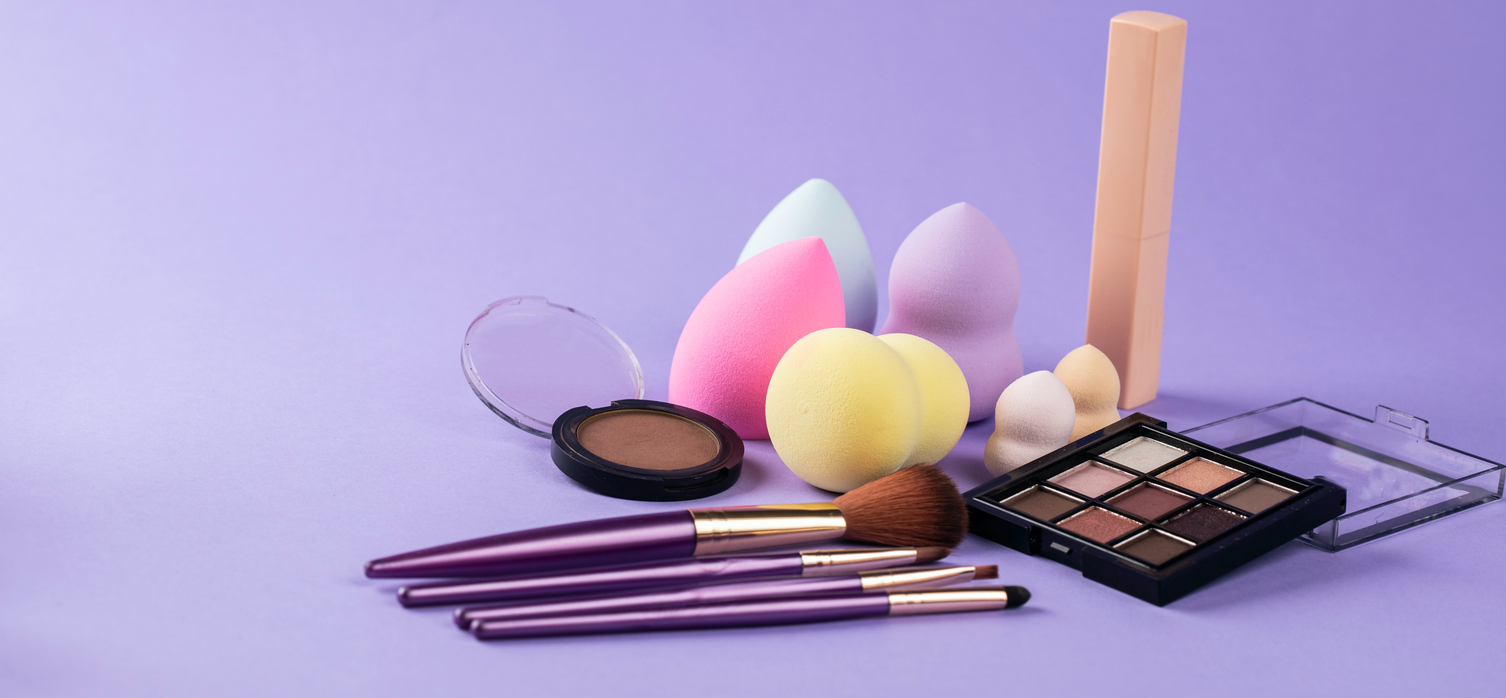
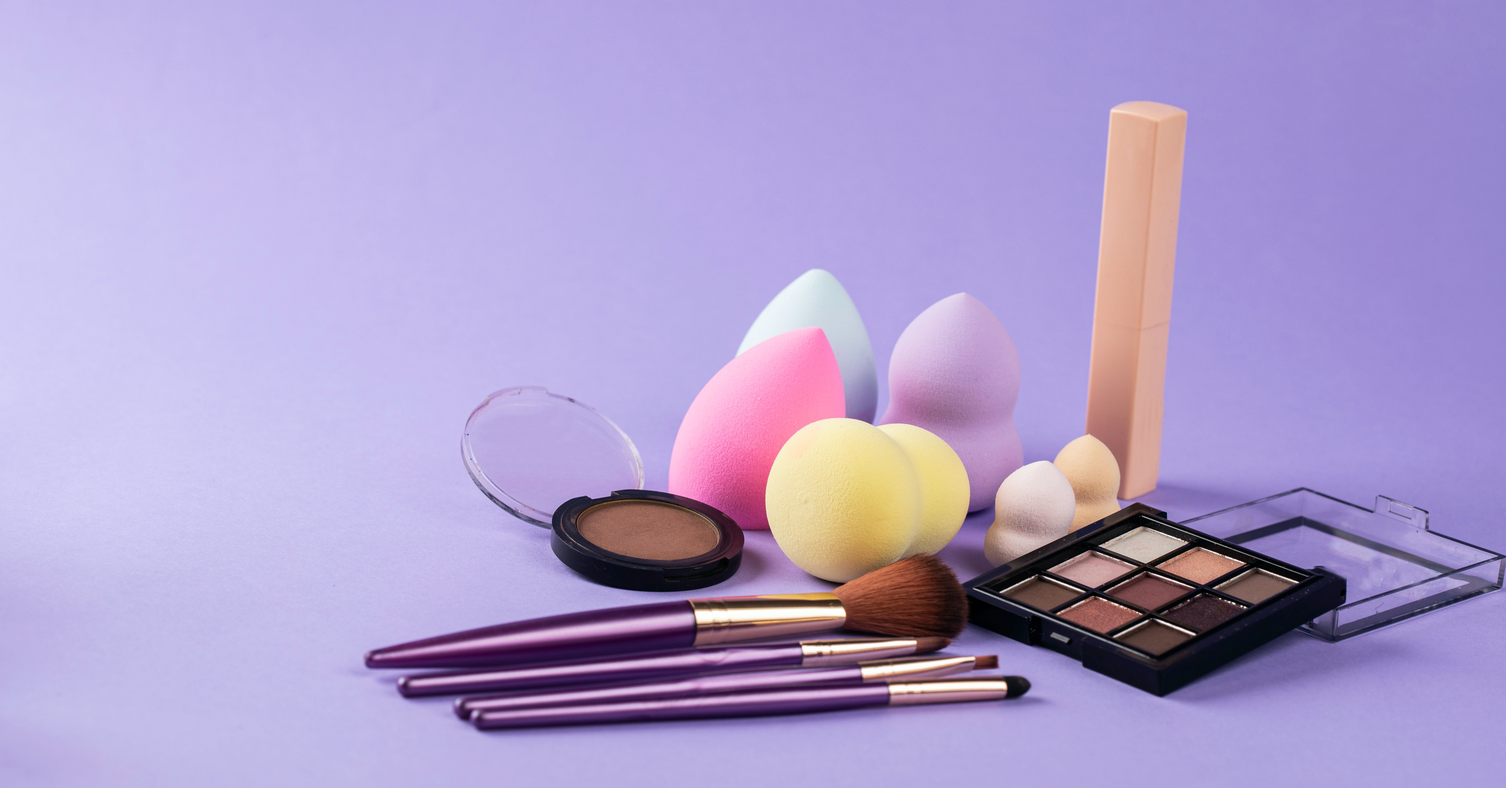
added a nav bar

Changed region(s): [[0.2188, 0.0, 1.0, 0.9342], [0.3125, 0.436, 0.3438, 0.4671]]

diff --git a/styles.css b/styles.css
@@ -11,17 +11,41 @@
     padding: 0;
     margin: 0;
   }
+
   
+  .topnav {
+    background-color: #9487cf;
+    position:absolute;
+    right: 0;
+   
+  }
+  
+  /* Navbar links */
+  .topnav a {
+    display: inline-block;
+    color: #f2f2f2;
+    text-align: center;
+    padding: 14px 16px;
+    text-decoration: none;
+    font-size: 20px;
+    font-family: 'Segoe UI', Tahoma, Geneva, Verdana, sans-serif;
+
+  }
+  .topnav a:hover {
+    background-color: #bd98cc;
+    color: black;
+  }
+
 .hero{
     position: relative;
     width: 100%;
-    height: 80%;
+    height: 90%;
     background: url(hero.jpg);
     background-repeat: no-repeat;
     background-size: cover;
     content: "";
     position: absolute;
-    top: 5%;
+    top: 0;
     left: 0;
     filter: brightness(70%);
 }

diff --git a/index.html b/index.html
@@ -8,15 +8,19 @@
     <title>Beauty Salon</title>
 </head>
 <body>
+  
     <header id="header">
-       
-    </header>
-    <div class="hero">
-        <div class="hero-content">
-            <input id ="email" type="email" placeholder="Enter Your Email"
-
+        <div class="hero">
+        <div class="container">
+            <nav class="topnav">       
+            <a href="#home">Home</a>
+            <a href="#design">My Designs</a>
+            <a href="#project">My Projects</a>
+            <a href="#contact">Contact Me</a>
+            </nav>
         </div>
-       
-    </div>
+        </div>
+    </header>
+  
 </body>
 </html>
